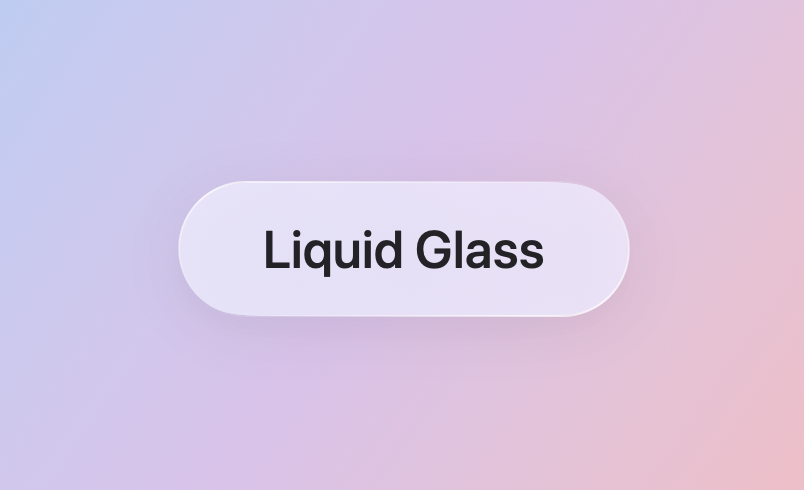
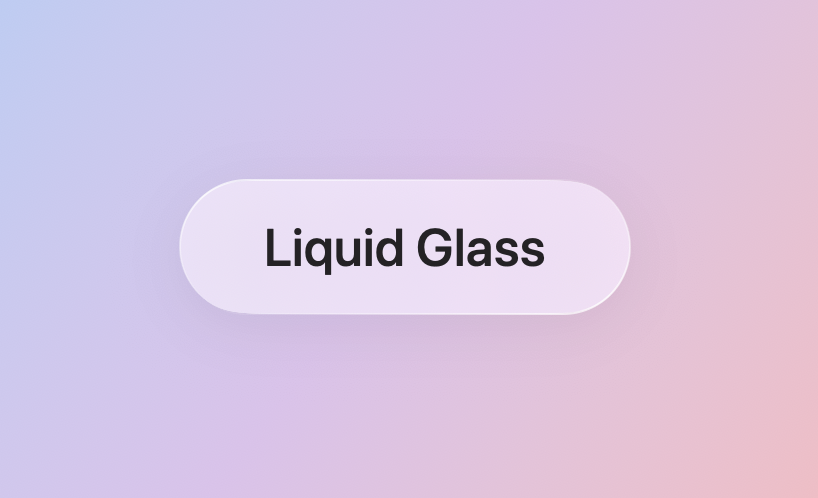
feat: add opacity parameter to GlassStyle initializer and adjust highlight color calculation

diff --git a/Sources/LiquidGlass/LiquidGlass.swift b/Sources/LiquidGlass/LiquidGlass.swift
@@ -25,13 +25,16 @@ public struct GlassStyle: View {
 
     /// Underlying shape to style (rounded rect, capsule, or circle)
     private let shape: BackgroundShape
+    
+    private let opacity: CGFloat
 
     // MARK: - Initializer
 
     /// Create a glass style for the provided `BackgroundShape`.
     /// - Parameter shape: the target `BackgroundShape` to render.
-    public init(shape: BackgroundShape) {
+    public init(shape: BackgroundShape, opacity: CGFloat = 0.6) {
         self.shape = shape
+        self.opacity = opacity
     }
 
     // MARK: - Fluent API
@@ -47,11 +50,14 @@ public struct GlassStyle: View {
     // MARK: - Computed colors
 
     /// Effective base color (tint or accent)
-    private var color: Color { tintColor ?? ( colorScheme == .dark ? .black : .white) }
+    private var color: Color {
+//        tintColor ?? ( colorScheme == .dark ? .black : .white)
+        tintColor ?? .accentColor
+    }
 
     /// Slight bright/dark highlight depending on environment
     private var highlightColor: Color {
-        colorScheme == .dark ? .black.opacity(0.4) : .white.opacity(0.9)
+        colorScheme == .dark ? .black.opacity(0.7 * opacity) : .white.opacity(0.9 * opacity)
     }
 
     /// Shadow color tuned for light/dark modes
